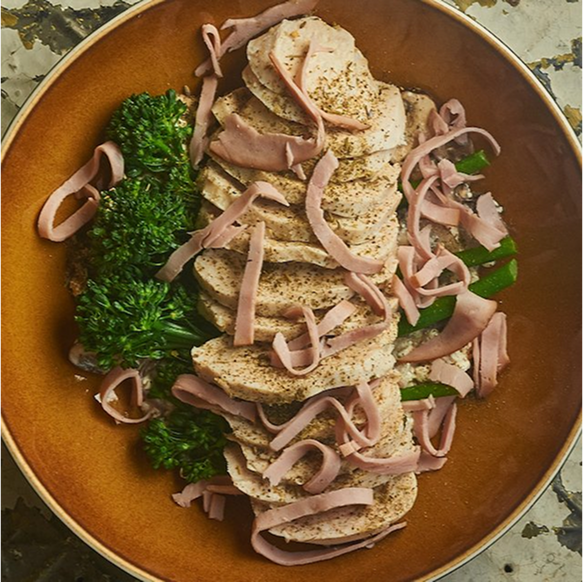
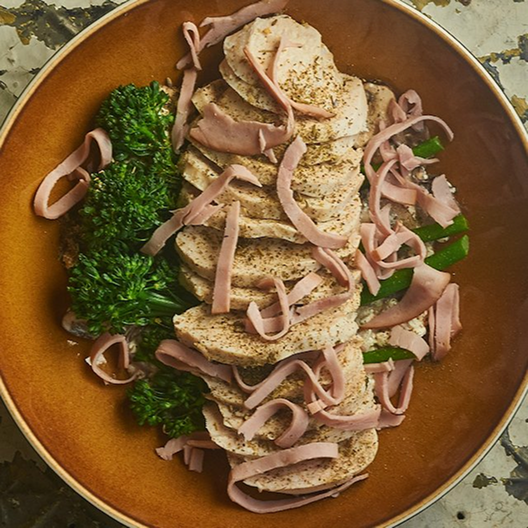
edited the recipes carousal

diff --git a/stylesheet.css b/stylesheet.css
@@ -211,14 +211,12 @@ footer {
   border-bottom: 1px solid #ccc;
 }
 
-/* Inner banner that scrolls horizontally */
 .image-banner {
   display: flex;
   width: max-content;
   animation: scrollBanner 30s linear infinite;
 }
 
-/* Style for the images */
 .image-banner img {
   height: 80px;
   width: auto;
@@ -348,7 +346,6 @@ footer {
   transform: scale(1.05);
 }
 
-/* Lightbox overlay */
 .lightbox {
   position: fixed;
   top: 0;
@@ -391,6 +388,31 @@ footer {
   border-radius: 12px;
   transition: transform 0.3s ease;
   cursor: pointer;
+}
+
+.ingrediants-gallery {
+  display: flex;
+  flex-direction: row;
+  column-gap: 50px;
+}
+
+.ingrediant {
+  background-color: var(--creme-color);
+  text-align: center;
+  border-radius: 12px;
+  border-width: 5px;
+  border-color: var(--darkbrown-color);
+  font-size: 1.2rem;
+  box-shadow: 0 2px 6px rgba(0,0,0,0.1);
+  cursor: pointer;
+  transition: transform 0.2s ease, background-color 0.3s ease;
+  height: 40px;
+  width: 100px;
+  white-space: nowrap;
+  padding-left: 10px;
+  padding-right: 10px;
+  padding-top: 0px;
+  padding-bottom: 0px;
 }
 
 .word-gallery {
@@ -450,6 +472,73 @@ footer {
   font-weight: bold;
   text-align: center;
   max-width: 90%;
+}
+
+/*recipes carousal*/
+
+.recipes-carousel {
+  position: relative;
+  width: 100vw;
+  height: 100vh;
+  overflow: hidden;
+  background-color: var(--darkbrown-color);
+}
+
+.recipes-image {
+  padding: 20px;
+  padding-left: 100px;
+}
+
+.recipes-text {
+  width: 500px;
+  padding: 20px;
+}
+
+.slide {
+  position: absolute;
+  width: 100%;
+  height: 100%;
+  background-size: cover;
+  background-position: center;
+  opacity: 0;
+  transition: opacity 0.7s ease-in-out;
+
+  display: flex;
+  flex-direction: row;
+  padding: 20px;
+  color: var(--creme-color);
+  align-items: center;
+}
+
+.slide.active {
+  opacity: 1;
+  z-index: 1;
+  align-items: center;
+}
+
+.ingrediant {
+color: var(--darkbrown-color);
+}
+
+button.prev,
+button.next {
+  position: absolute;
+  top: 50%;
+  transform: translateY(-50%);
+  background-color: rgba(0,0,0,0.5);
+  border: none;
+  color: white;
+  font-size: 3rem;
+  padding: 10px 20px;
+  cursor: pointer;
+  z-index: 2;
+}
+
+button.prev { left: 20px; }
+button.next { right: 20px; }
+
+button:hover {
+  background-color: rgba(0,0,0,0.8);
 }
 
 .reviews {

diff --git a/homepage.html b/homepage.html
@@ -162,9 +162,32 @@ body {
 
 <!--recipes-carousal--->
 
-<section class="recipes-carousal">
-  <img src="media/recipes-carousal.png" alt="recipes-carousal" width="100%">
-</section>
+<div class="recipes-carousel">
+  <div class="slide active">
+
+    <div class="recipes-image">
+  <img src="media/recipes/Chicken Cordon Bleu-ish.png" height="30%" width="auto">
+  </div>
+
+  <div class="recipes-text">
+    <h2>Chicken Cordon Bleu-ish</h2>
+  <div class="ingrediants-gallery">
+    <div class="ingrediant"><h5>Certified Organic</h5></div>
+    <div class="ingrediant"><h5>Certified Kosher</h5></div>
+    <div class="ingrediant"><h5>Gluten Free</h5></div>
+  </div>
+  <div class="recipe-description">
+    <p>A cozy twist on the classic, this comforting dish wraps tender chicken around melty cheese and savory ham — crispy on the outside, creamy and satisfying on the inside.</p>
+    </div>
+  </div>
+
+</div>
+  <div class="slide" style="background-image: url('img2.jpg');"></div>
+  <div class="slide" style="background-image: url('img3.jpg');"></div>
+</div> 
+  <button class="prev" onclick="moveSlide(-1)">❮</button>
+  <button class="next" onclick="moveSlide(1)">❯</button>
+</div>
 
 <!--flavour-profile--->
 <div class="nutritional-information-title">
